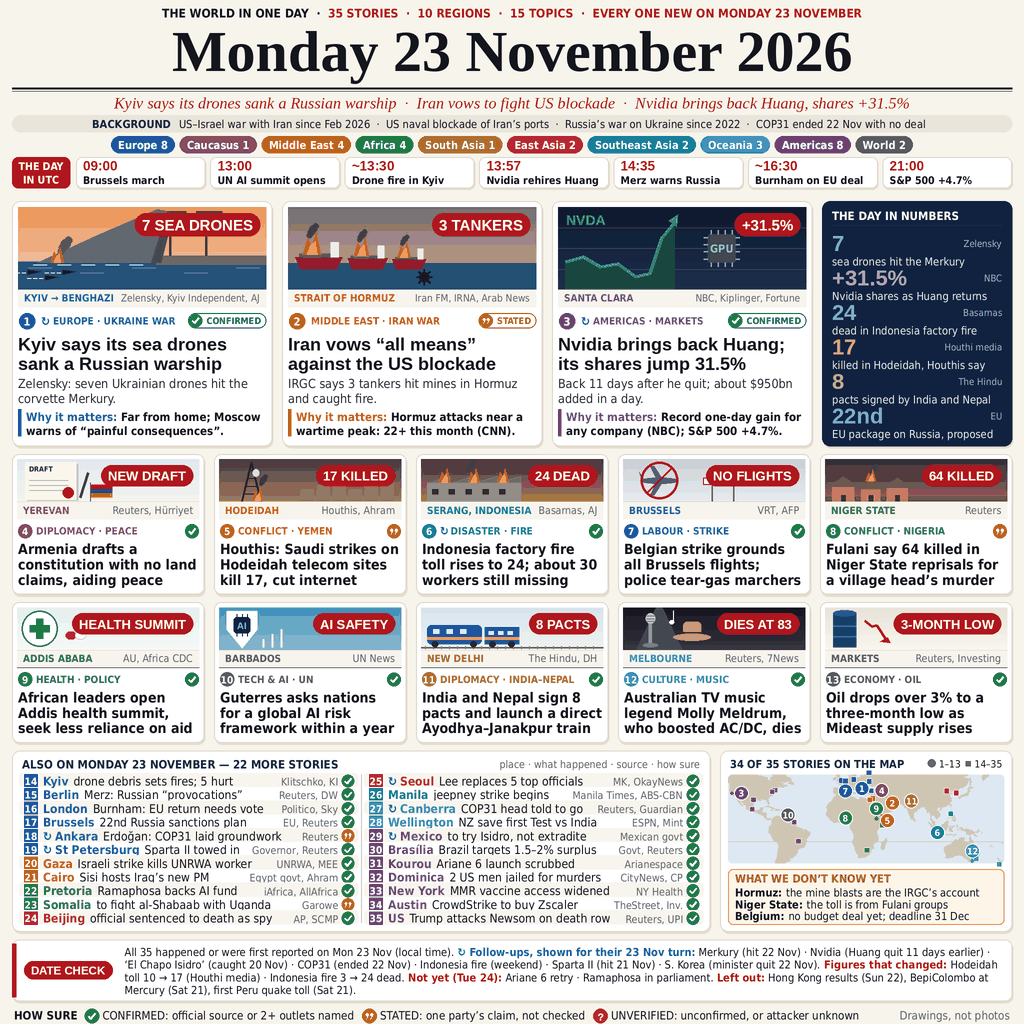
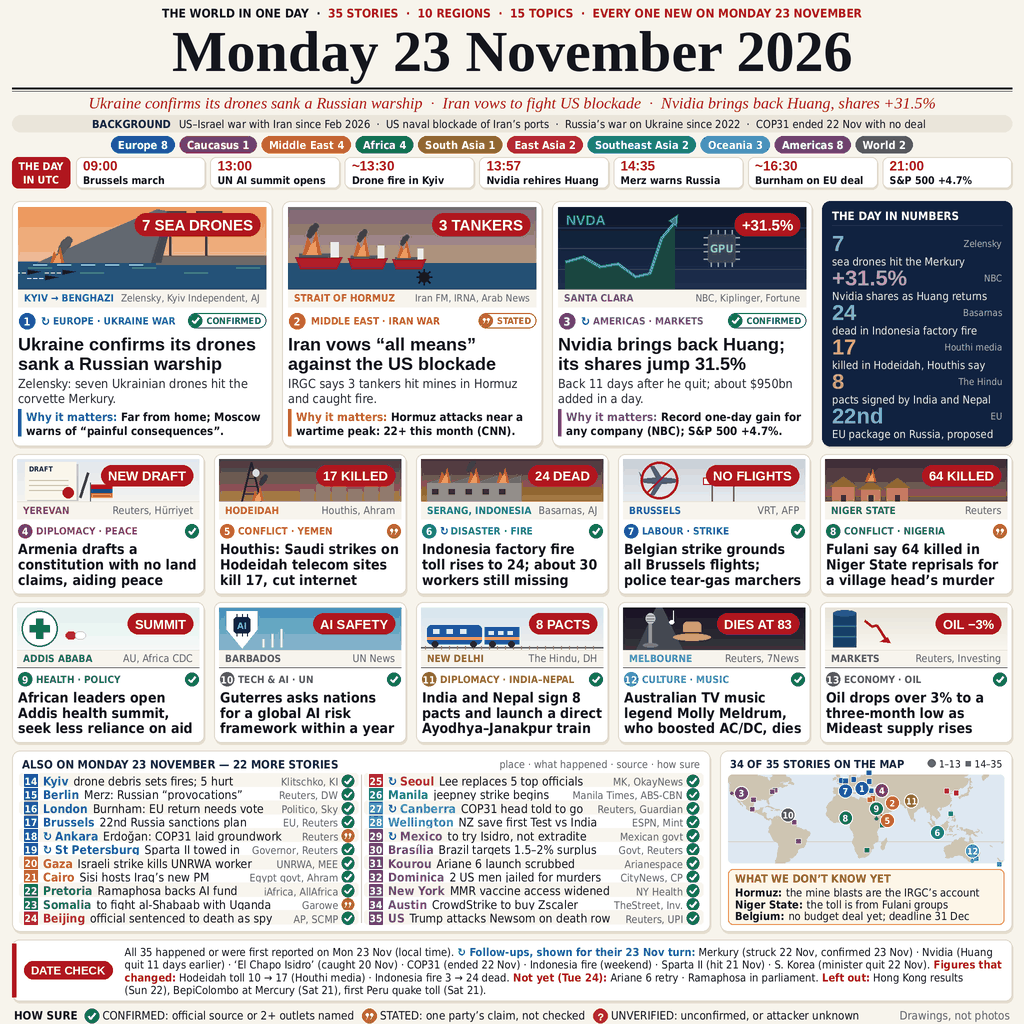
The World in One Day: Monday 23 Nov 2026, 35 stories

diff --git a/build.py b/build.py
@@ -107,7 +107,7 @@ LEADS = [
     dict(n=1, pic="merkury", region="EUROPE", topic="Conflict",
          field="UKRAINE WAR", follow=True, place="KYIV \u2192 BENGHAZI",
          label="7 SEA DRONES", cert="CONFIRMED",
-         headline="Kyiv says its sea drones sank a Russian warship",
+         headline="Ukraine confirms its drones sank a Russian warship",
          body="Zelensky: seven Ukrainian drones hit the corvette Merkury.",
          why="Far from home; Moscow warns of \u201cpainful consequences\u201d.",
          sources="Zelensky, Kyiv Independent, AJ", pin=(30.52, 50.45)),
@@ -155,7 +155,7 @@ CARDS = [
          pin=(4.5, 10.0)),
     dict(n=9, pic="health", region="AFRICA", topic="Health",
          field="POLICY", follow=False, place="ADDIS ABABA",
-         label="HEALTH SUMMIT", cert="CONFIRMED", sources="AU, Africa CDC",
+         label="SUMMIT", cert="CONFIRMED", sources="AU, Africa CDC",
          headline="African leaders open Addis health summit, seek less reliance on aid",
          pin=(38.75, 9.0)),
     dict(n=10, pic="ai", region="WORLD", topic="Tech & AI",
@@ -174,7 +174,7 @@ CARDS = [
          headline="Australian TV music legend Molly Meldrum, who boosted AC/DC, dies",
          pin=(144.96, -37.81)),
     dict(n=13, pic="oil", region="WORLD", topic="Economy",
-         field="OIL", follow=False, place="MARKETS", label="3-MONTH LOW",
+         field="OIL", follow=False, place="MARKETS", label="OIL −3%",
          cert="CONFIRMED", sources="Reuters, Investing",
          headline="Oil drops over 3% to a three-month low as Mideast supply rises",
          pin=None),
@@ -265,7 +265,7 @@ UNKNOWNS = [
 ]
 
 FOLLOWUPS = [
-    ("Merkury", "hit 22" + NBSP + "Nov"),
+    ("Merkury", "struck 22" + NBSP + "Nov, confirmed 23" + NBSP + "Nov"),
     ("Nvidia", "Huang quit 11 days earlier"),
     ("\u2018El Chapo" + NBSP + "Isidro\u2019", "caught 20" + NBSP + "Nov"),
     ("COP31", "ended 22" + NBSP + "Nov"),
@@ -837,7 +837,7 @@ def draw_masthead(c):
     c.line([(12, ry + 3), (1012, ry + 3)], INK, 0.7)
     # Deck.
     c.text(512, ry + 6,
-           "Kyiv says its drones sank a Russian warship  \u00b7  "
+           "Ukraine confirms its drones sank a Russian warship  \u00b7  "
            "Iran vows to fight US blockade  \u00b7  "
            "Nvidia brings back Huang, shares +31.5%",
            "serif_i", 16, RED, anchor="ma", element="deck")
